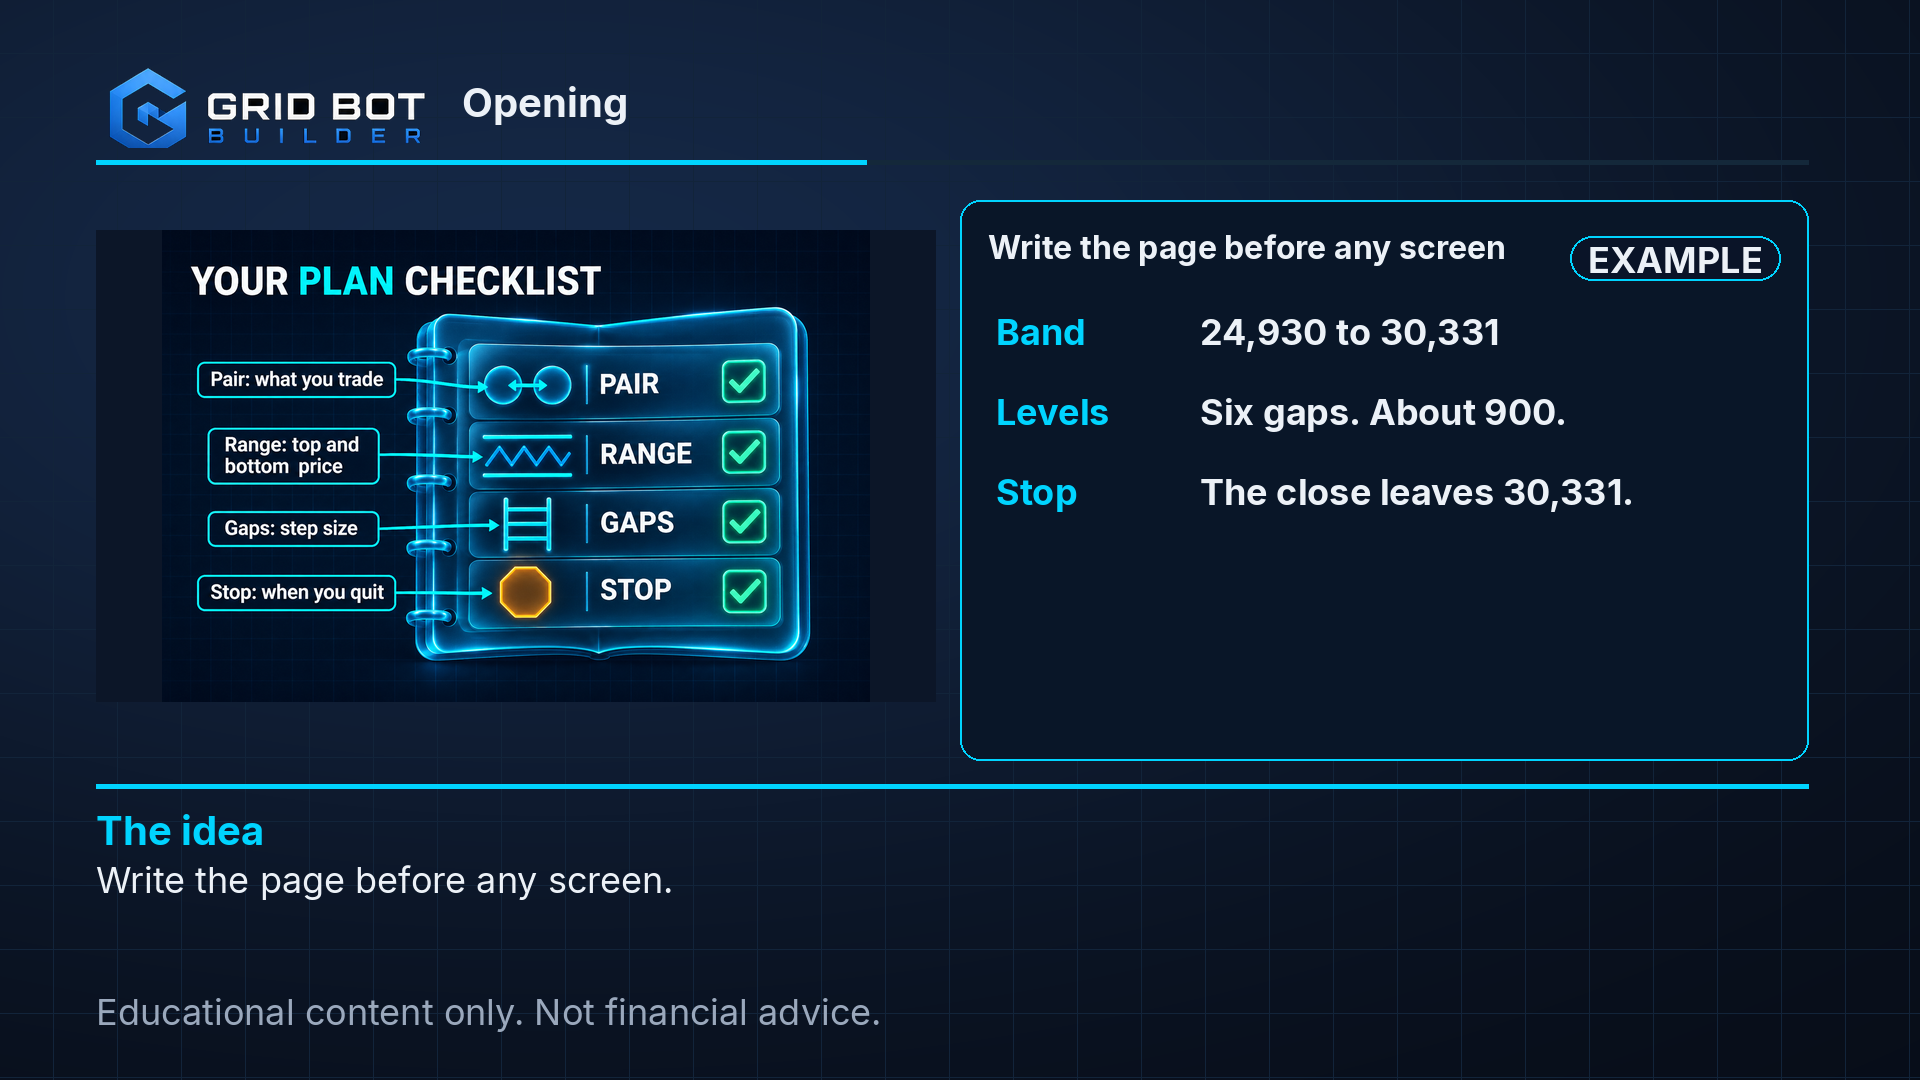
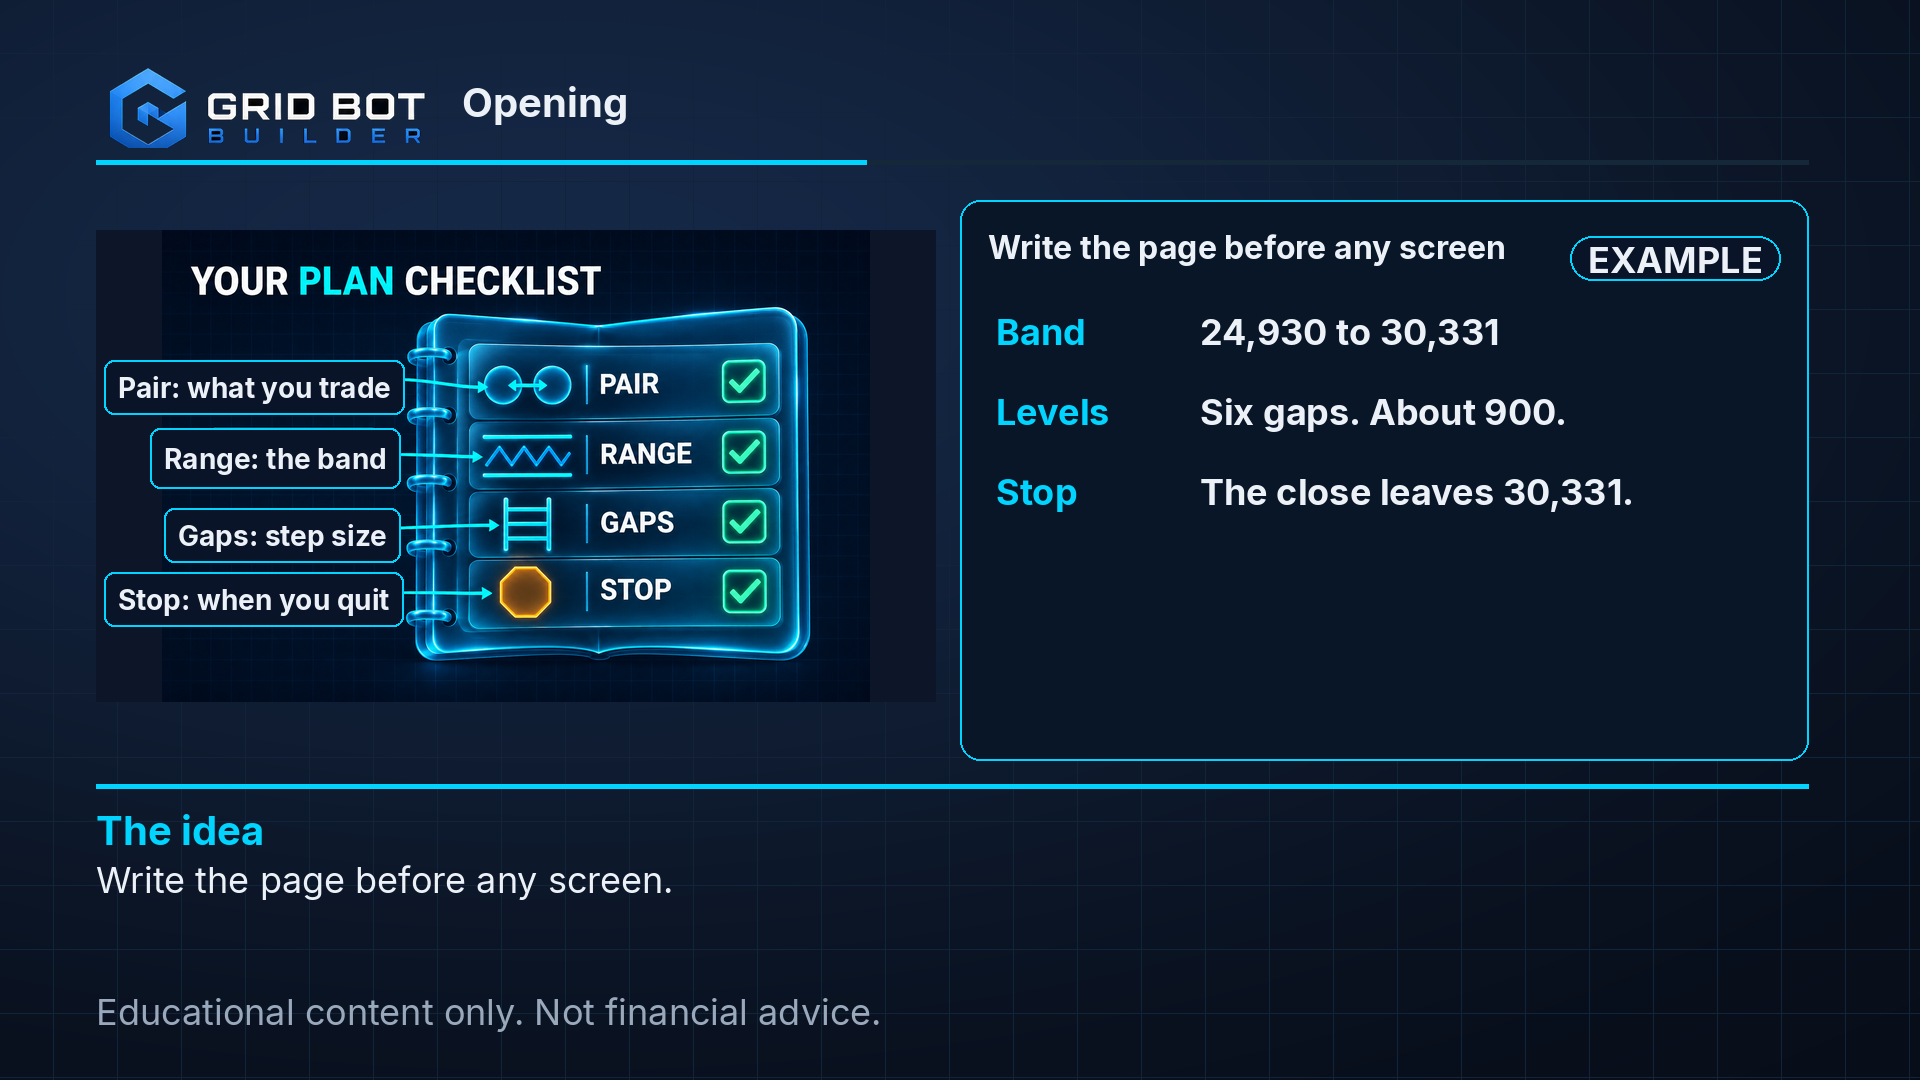
Fix the last six code-drawn frames.
Checklist tags are 28px. Order tickets use straight leaders, and October is one ticket plus three dots. Thumbnails drop the speck mascot, and the buy chip sits beside the chart.

Changed region(s): [[0.0625, 0.3361, 0.2188, 0.5806]]

diff --git a/course/blueprint-rebuild/studio.py b/course/blueprint-rebuild/studio.py
@@ -774,35 +774,24 @@ def chart_card(base: Image.Image, shot: dict, local: float, dur: float, box=None
                 draw.line([(x, y_line), (min(x + 8, plot[2]), y_line)], fill=CYAN, width=3)
                 x += 18
             draw.text((gutter_x, y_line - 16), "27,630", font=font(28), fill=CYAN)
-        # A buy limit is filled when price falls to it. The limit-orders frame
-        # marks those downward crosses only. The hook keeps three spaced crosses.
+        # A buy is the day the close finishes below 27,630. The interpolated
+        # point sits on the day before, which is the 29 Aug peak.
         downward = {
             "2023-08-17", "2023-08-30", "2023-10-02", "2023-10-05", "2023-10-09",
         }
-        crossings = []
-        for index in range(1, n):
-            left, right = closes[index - 1], closes[index]
-            if (left - 27630) * (right - 27630) >= 0:
-                continue
-            if chapter == "Limit orders wait":
-                if series[index]["date"] not in downward or not (left > 27630 > right):
-                    continue
-            frac = index - 1 + (27630 - left) / (right - left)
-            crossings.append(frac)
-        picked = []
-        if chapter == "Limit orders wait":
-            picked = crossings
-        else:
-            for spot in crossings:
-                if all(abs(spot - prev) > n * 0.12 for prev in picked):
-                    picked.append(spot)
-                if len(picked) == 3:
-                    break
+        downs = [
+            index for index in range(1, n)
+            if series[index]["date"] in downward and closes[index - 1] > 27630 > closes[index]
+        ]
+        span = max(1, n - 1)
+
+        def x_of(index: int) -> float:
+            return plot[0] + (plot[2] - plot[0]) * (index / span)
+
         face_t = font(22)
-        text = "BUY 27,630"
-        twid = int(face_t.getlength(text)) + 16
+        buy = "BUY 27,630"
+        twid = int(face_t.getlength(buy)) + 16
         ticket_h = 36
-        # Keep the date tag clear. Tickets were landing on it.
         date_face = font(28)
         date_w = int(date_face.getlength(tag)) + 20
         date_h = 40
@@ -811,49 +800,37 @@ def chart_card(base: Image.Image, shot: dict, local: float, dur: float, box=None
         if date_x < plot[0]:
             date_x = min(hx + 24, plot[2] - date_w)
         date_y = min(max(plot[1], date_y), plot[3] - date_h)
-        blocked: list[tuple[float, float, float, float]] = [
-            (date_x - 8, date_y - 8, date_x + date_w + 8, date_y + date_h + 8),
-        ]
+        # 40px clear of the 16 Oct tag.
+        clear = (date_x - 40, date_y - 40, date_x + date_w + 40, date_y + date_h + 40)
 
-        def _hits(rect: tuple[float, float, float, float]) -> bool:
-            left, top, right, bottom = rect
-            for bx0, by0, bx1, by1 in blocked:
-                if not (right < bx0 or left > bx1 or bottom < by0 or top > by1):
-                    return True
-            return False
+        def draw_ticket(label: str, left: float, top: float, target: tuple[float, float] | None) -> None:
+            face = font(22)
+            width = int(face.getlength(label)) + 16
+            if target is not None:
+                draw.line([(left + width, top + ticket_h), target], fill=CYAN, width=2)
+            draw.rounded_rectangle([left, top, left + width, top + ticket_h], 8, fill=TAG, outline=CYAN, width=2)
+            draw.text((left + 8, top + 6), label, font=face, fill=WHITE)
 
-        parked = 0
-        for spot in picked:
-            cx = plot[0] + (plot[2] - plot[0]) * (spot / max(1, n - 1))
-            if cx > plot[2] - 80:
-                continue
-            left_x = max(plot[0], min(cx - twid / 2, plot[2] - twid))
+        if len(downs) >= 2:
+            # 17 Aug: sit left of the drop so the path can meet the line.
+            cx = x_of(downs[0])
+            draw_ticket(buy, max(plot[0], cx - 28 - twid), y_line - 40 - ticket_h, (cx, y_line))
+            # 30 Aug: the down-close itself, not the peak the day before.
+            cx = x_of(downs[1])
+            draw_ticket(buy, cx - twid / 2, y_line - 48 - ticket_h, (cx, y_line))
+        october = downs[2:]
+        for index in october:
+            cx = x_of(index)
+            draw.ellipse((cx - 5, y_line - 5, cx + 5, y_line + 5), fill=WHITE, outline=CYAN)
+        if october:
+            more = "3 more in October"
+            width = int(face_t.getlength(more)) + 16
+            left = min(x_of(october[0]) - 12 - width, clear[0] - 8 - width)
+            left = max(plot[0], left)
             top = y_line - 40 - ticket_h
-            straight = (cx, top + ticket_h, cx, y_line)
-            # A vertical leader through the date tag is the fail. Park those tickets to its left.
-            through_tag = date_x - 6 <= cx <= date_x + date_w + 6 and top < date_y + date_h
-            if through_tag or _hits((left_x, top, left_x + twid, top + ticket_h)):
-                left_x = date_x - 28 - twid
-                top = y_line - 40 - ticket_h - parked * (ticket_h + 8)
-                parked += 1
-                while top >= plot[1] and _hits((left_x, top, left_x + twid, top + ticket_h)):
-                    top -= ticket_h + 8
-                # Drop on the clear side, then run under the line to the crossing.
-                lane_x = left_x - 12
-                elbow_y = y_line + 16 + (parked - 1) * 7
-                leader = [
-                    (left_x, top + ticket_h / 2),
-                    (lane_x, top + ticket_h / 2),
-                    (lane_x, elbow_y),
-                    (cx, elbow_y),
-                    (cx, y_line),
-                ]
-            else:
-                leader = [(left_x + twid / 2, top + ticket_h), (cx, y_line)]
-            draw.line(leader, fill=CYAN, width=2)
-            draw.rounded_rectangle([left_x, top, left_x + twid, top + ticket_h], 8, fill=TAG, outline=CYAN, width=2)
-            draw.text((left_x + 8, top + 6), text, font=face_t, fill=WHITE)
-            blocked.append((left_x - 4, top - 4, left_x + twid + 4, top + ticket_h + 4))
+            if top < clear[3] and left + width > clear[0]:
+                top = clear[1] - 8 - ticket_h
+            draw_ticket(more, left, top, None)
 
     if chapter == "The stop":
         for index, row in enumerate(series):
@@ -903,7 +880,14 @@ def chart_card(base: Image.Image, shot: dict, local: float, dur: float, box=None
             draw.line([(marks.get("x", 900), rail_y), (plot[0], chart_y)], fill=CYAN, width=3)
 
 
-def _hero(base: Image.Image, box: tuple[int, int, int, int], mode: str, chip_dx: int = 0, chip_x: int | None = None) -> None:
+def _hero(
+    base: Image.Image,
+    box: tuple[int, int, int, int],
+    mode: str,
+    chip_dx: int = 0,
+    chip_x: int | None = None,
+    chip_beside: bool = False,
+) -> None:
     """Lesson visual. path and orders use the real summer closes, not a sawtooth."""
     draw = ImageDraw.Draw(base)
     draw.rounded_rectangle(box, 24, fill=GLASS, outline=CYAN, width=2)
@@ -983,9 +967,15 @@ def _hero(base: Image.Image, box: tuple[int, int, int, int], mode: str, chip_dx:
         face = font(28)
         text = "BUY 27,630"
         tw = int(face.getlength(text)) + 24
-        tx = plot[0] + 12 + chip_dx if chip_x is None else chip_x
-        tx = min(max(tx, x0 + 12), x1 - 12 - tw)
-        ty = y_line - 20
+        if chip_beside:
+            # Left of the card, on the clear side of the line, so it misses the path.
+            tx = min(560, x0 - 24 - tw)
+            ty = y_line - 20
+            draw.line([(tx + tw, ty + 20), (plot[0], y_line)], fill=CYAN, width=2)
+        else:
+            tx = plot[0] + 12 + chip_dx if chip_x is None else chip_x
+            tx = min(max(tx, x0 + 12), x1 - 12 - tw)
+            ty = y_line - 20
         draw.rounded_rectangle([tx, ty, tx + tw, ty + 40], 8, fill=TAG, outline=CYAN, width=2)
         draw.text((tx + 12, ty + 4), text, font=face, fill=WHITE)
 
@@ -1235,10 +1225,13 @@ def _retouch_analogy(draw: ImageDraw.ImageDraw, kind: str, origin: tuple[int, in
         _cover_label(draw, (620, 578, 900, 626), ["Bounces between"], bounds)
         return
     if kind == "list":
-        _cover_label(draw, (128, 272, 346, 318), ["Pair: what", "you trade"], bounds)
-        _cover_label(draw, (636, 272, 900, 318), ["Gaps: space", "between steps"], bounds)
-        _cover_label(draw, (128, 614, 392, 658), ["Band: top and", "bottom price"], bounds)
-        _cover_label(draw, (698, 614, 900, 658), ["Stop: when", "you quit"], bounds)
+        # The passing checklist shrinks its own tags to ~17px. Cover them at 28px,
+        # and stop before the binder rings (x ~400).
+        edge = (104, 248, 400, 700)
+        _cover_label(draw, (196, 360, 392, 404), ["Pair: what you trade"], edge)
+        _cover_label(draw, (196, 428, 392, 488), ["Range: the band"], edge)
+        _cover_label(draw, (196, 508, 380, 556), ["Gaps: step size"], edge)
+        _cover_label(draw, (196, 572, 392, 620), ["Stop: when you quit"], edge)
 
 
 def paint_analogy(base: Image.Image, shot: dict, local: float, dur: float) -> None:
@@ -1251,6 +1244,7 @@ def paint_analogy(base: Image.Image, shot: dict, local: float, dur: float) -> No
         if still:
             panel, _ox, _oy, _scale = _contain(load_picture(Path(still)).convert("RGB"), pw, ph)
             base.paste(panel, origin)
+            _retouch_analogy(draw, "list", origin)
         page = (origin[0] + pw + 24, 200, RIGHT, 760)
         draw.rounded_rectangle(page, 20, fill=GLASS, outline=CYAN, width=2)
         draw.text((page[0] + 28, page[1] + 28), "Write the page before any screen", font=font(32), fill=WHITE)
@@ -1400,14 +1394,14 @@ def paint_lesson_thumb(shot: dict, dest: Path) -> Path:
             draw.text((x, y), word, font=face, fill=CYAN if word.lower() == keyword else WHITE)
             x += int(face.getlength(word + " "))
         y += 130
-    # On the 1280 thumbnail the left-edge chip covers the July drop. Sit it to the right.
+    # The thumbnail mascot was a speck between the headline and the footer.
+    # The title and end cards already carry it.
     _hero(
         image,
         (820, 120, 1230, 560),
         {1: "path", 2: "lines", 3: "orders"}.get(number, "regimes"),
-        chip_x=1060 if number == 3 else None,
+        chip_beside=(number == 3),
     )
-    place_mascot(image, shot, (560, 500, 800, 650))
     draw = ImageDraw.Draw(image)
     draw.text((48, 660), FOOT, font=font(28, "reg"), fill=MUTED)
     dest.parent.mkdir(parents=True, exist_ok=True)
